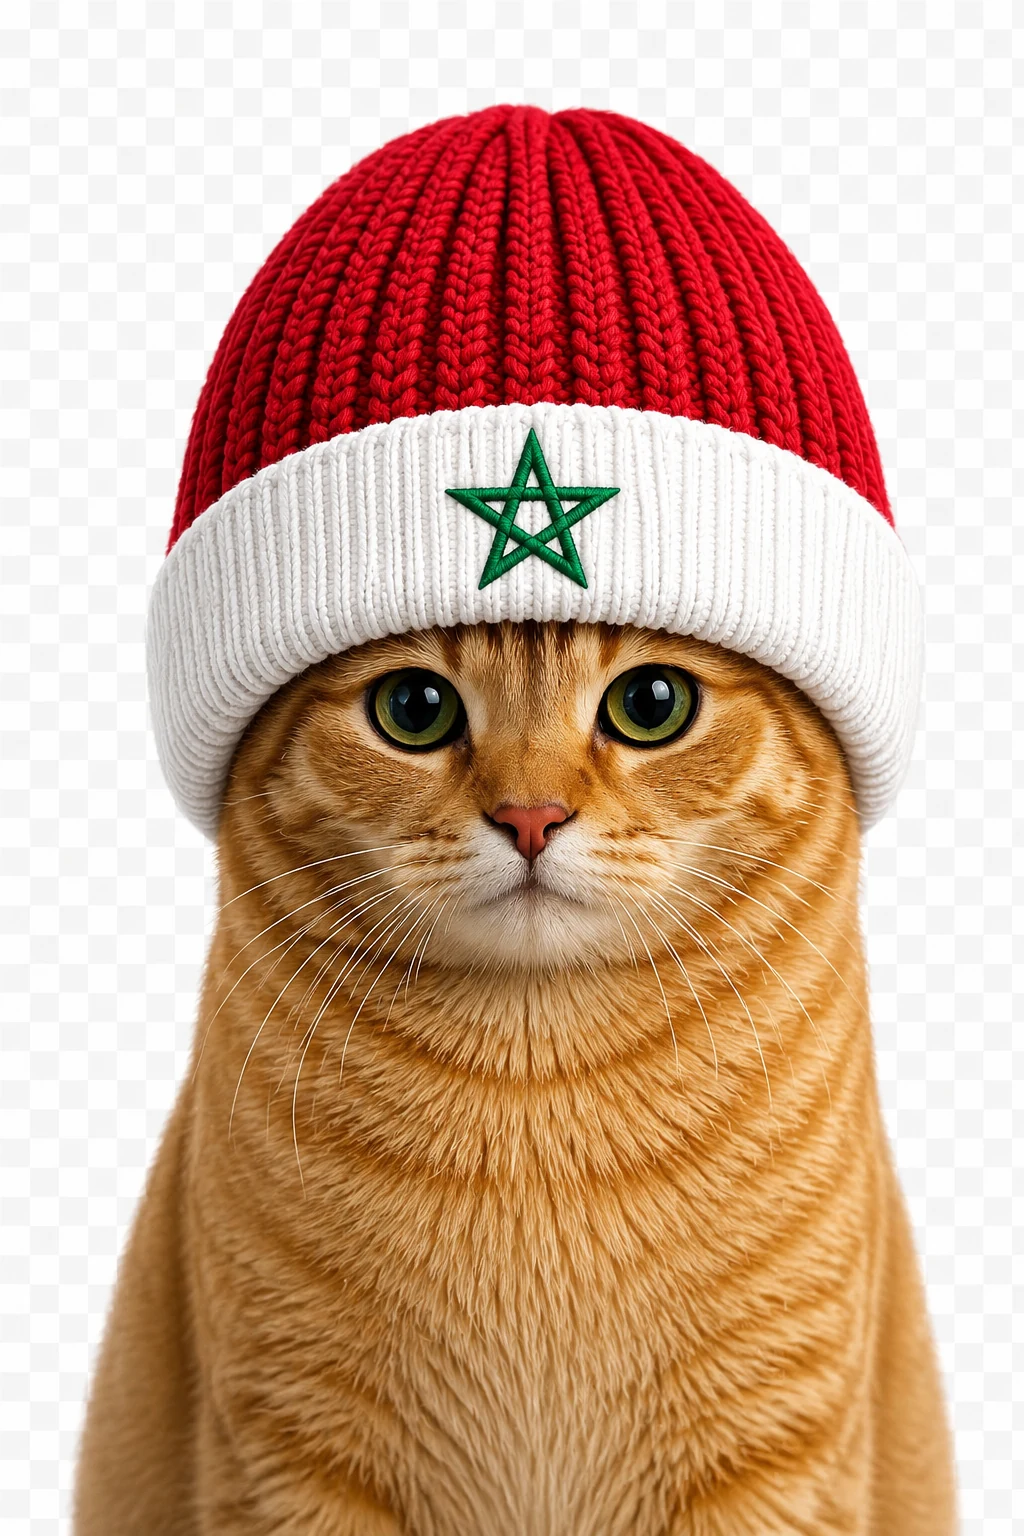
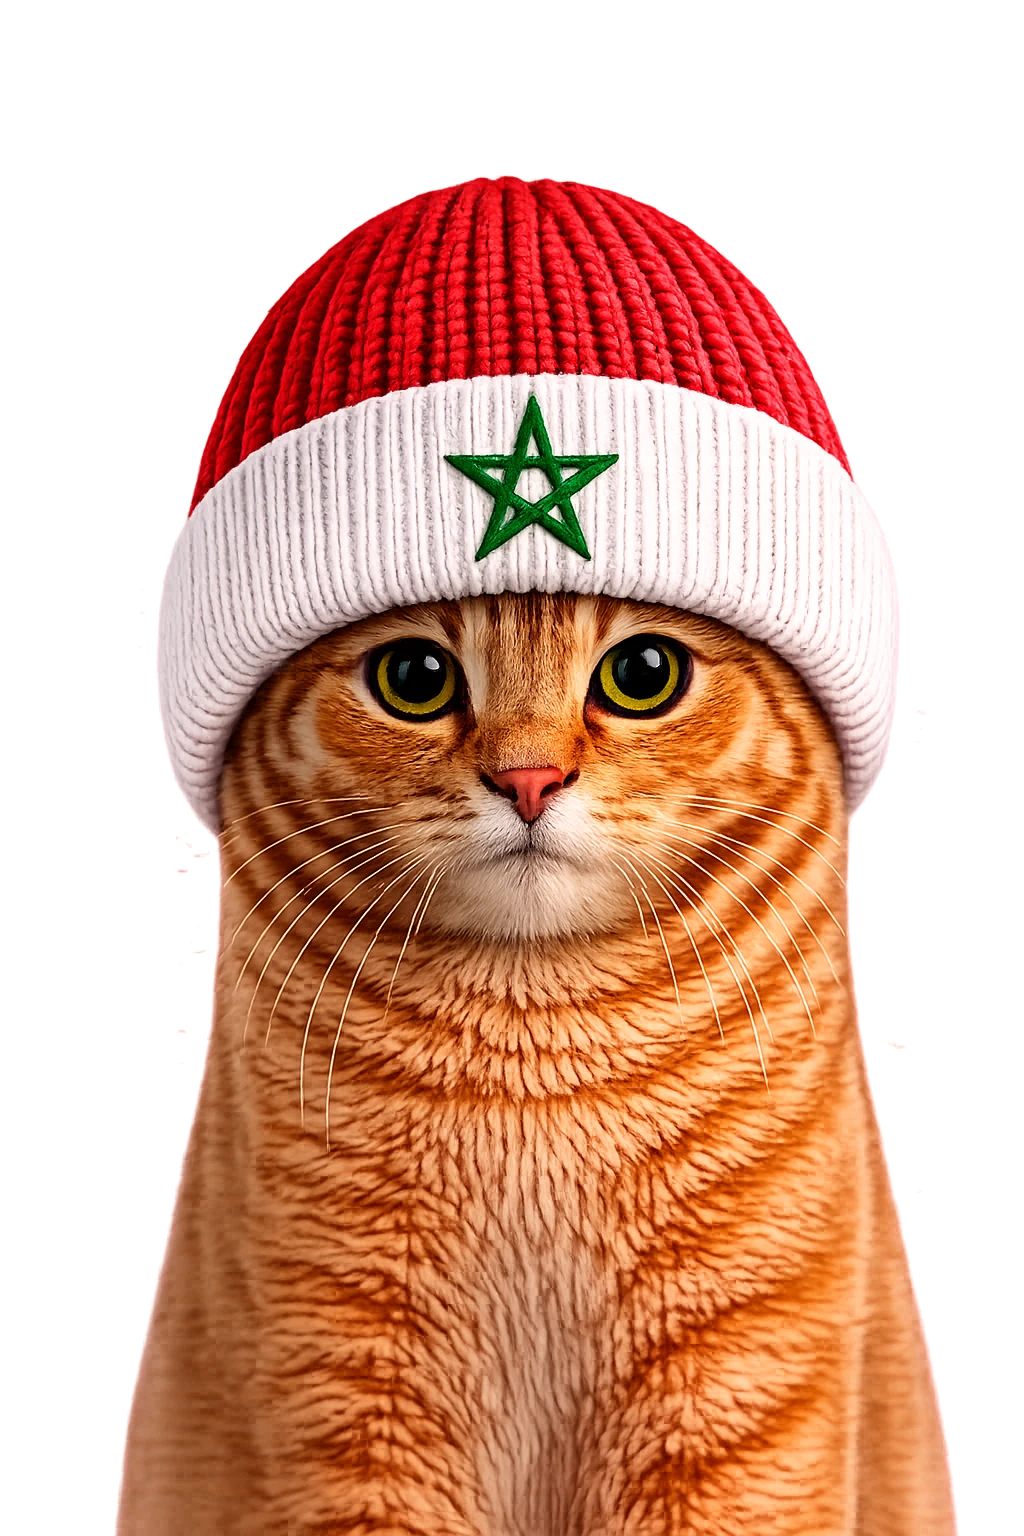
PFP: morocco transparent cutout + wire all 26 nations into generator
- Regenerate morocco-cat.webp from the new transparent PNG, preserving
  alpha (RGBA WebP) so it composites over any chosen background.
- Add the 8 new nations (Australia, Brazil, Haiti, Morocco, Paraguay,
  Scotland, Türkiye, United States) to the PFP 'Rep your nation' picker —
  now 26 nations, alphabetized.

diff --git a/index.html b/index.html
@@ -642,8 +642,10 @@
             <span class="pfp__group-label">Rep your nation <img class="emo" src="/assets/icon-ball.webp?v=3" alt="" /></span>
             <select id="pfp-nation" class="pfp__nation" aria-label="Pick a World Cup nation">
               <option value="">Default catwifhat</option>
+              <option value="australia-cat">Australia</option>
               <option value="austria-cat">Austria</option>
               <option value="bosnia-herzegovina-cat">Bosnia-Herzegovina</option>
+              <option value="brazil-cat">Brazil</option>
               <option value="canada-cat">Canada</option>
               <option value="columbia-cat">Colombia</option>
               <option value="congo-dr-cat">Congo DR</option>
@@ -651,14 +653,20 @@
               <option value="czechia-cat">Czechia</option>
               <option value="england-cat">England</option>
               <option value="ghana-cat">Ghana</option>
+              <option value="haiti-cat">Haiti</option>
               <option value="jordan-cat">Jordan</option>
               <option value="mexico-cat">Mexico</option>
+              <option value="morocco-cat">Morocco</option>
               <option value="panama-cat">Panama</option>
+              <option value="paraguay-cat">Paraguay</option>
               <option value="portugal-cat">Portugal</option>
               <option value="qatar-cat">Qatar</option>
+              <option value="scotland-cat">Scotland</option>
               <option value="south-africa-hat">South Africa</option>
               <option value="south-korea-cat">South Korea</option>
               <option value="swiss-cat">Switzerland</option>
+              <option value="turkey-cat">Türkiye</option>
+              <option value="usa-cat">United States</option>
               <option value="uzbekistan-cat">Uzbekistan</option>
             </select>
           </div>
